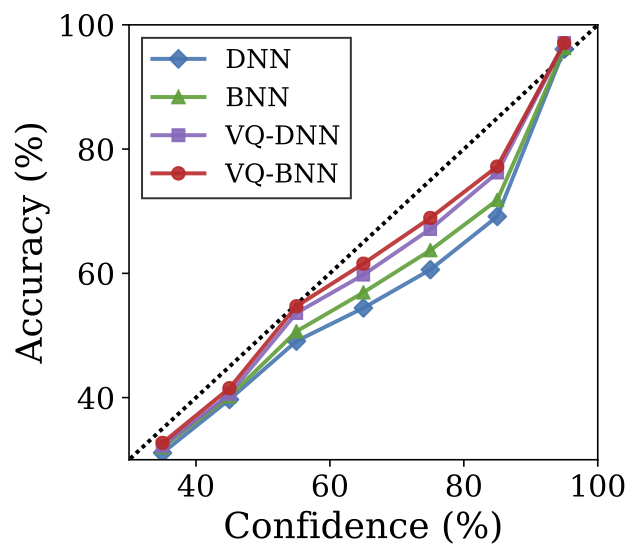
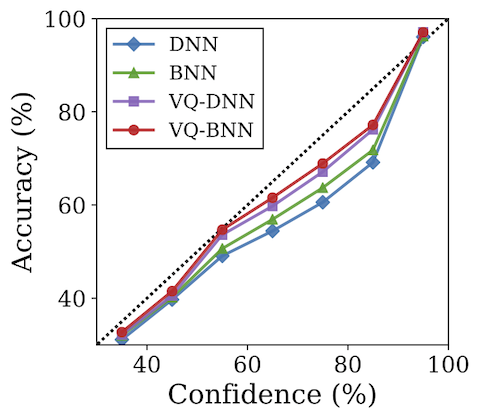
Beautify README

diff --git a/README.md b/README.md
@@ -87,14 +87,18 @@ We define several metrics for measuring accuracy and uncertainty: Acuracy (Acc) 
 
 This table shows the performance of the methods with semantic segmentation task on the CamVid dataset. We use arrows to indicate which direction is better. According to these results, VQ-BNN performs siignificantly faster than BNNs while estimating predictive results comparable to or even superior to the results of BNNs.
 
+<p align="center">
 <img src="resources/reliability-diagram-extended.png" style="width:100%;">
+</p>
 
 This reliability diagram also shows consistent results that temporal smoothing is an effective method to calibrate results. For more detailed discussion, please refer to the [blog](https://blog.xxxnell.com/posts/temporal-smoothing).
 
 
 ## Theory of VQ-BNN Inference for Data Stream
 
+<p align="center">
 <img src="resources/diagrams.gif" style="width:100%;">
+</p>
 
 It is very easy to implement VQ-BNN _inference_. VQ-BNN is simply the temporal exponential smoothing or _exponential moving average (EMA)_ of BNN's (or deterministic NN's) recent prediction sequence. More precisely, the predictive distribution of VQ-BNN is 
 
